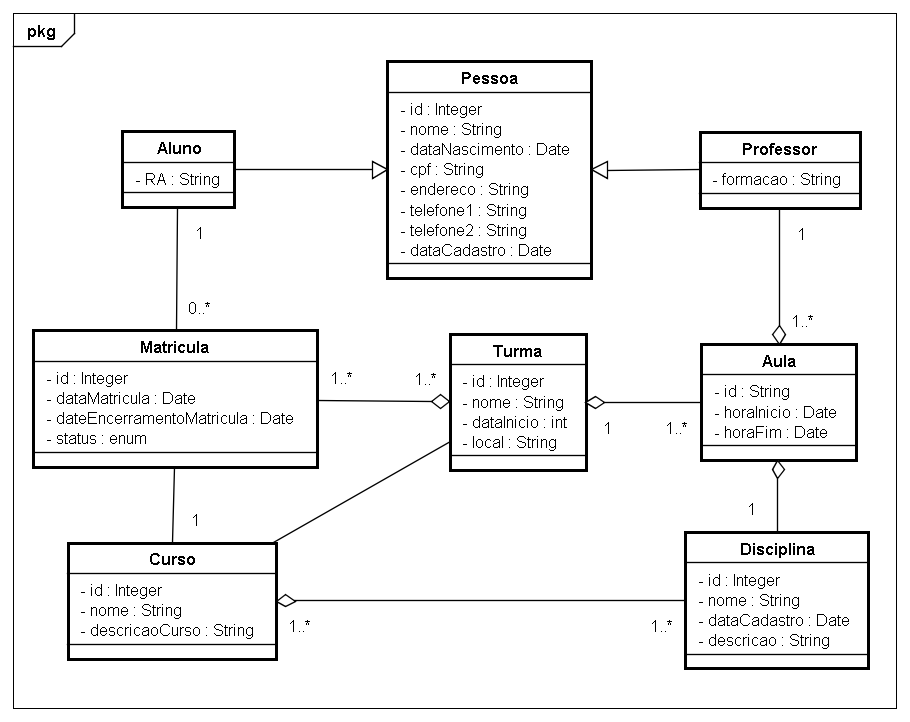
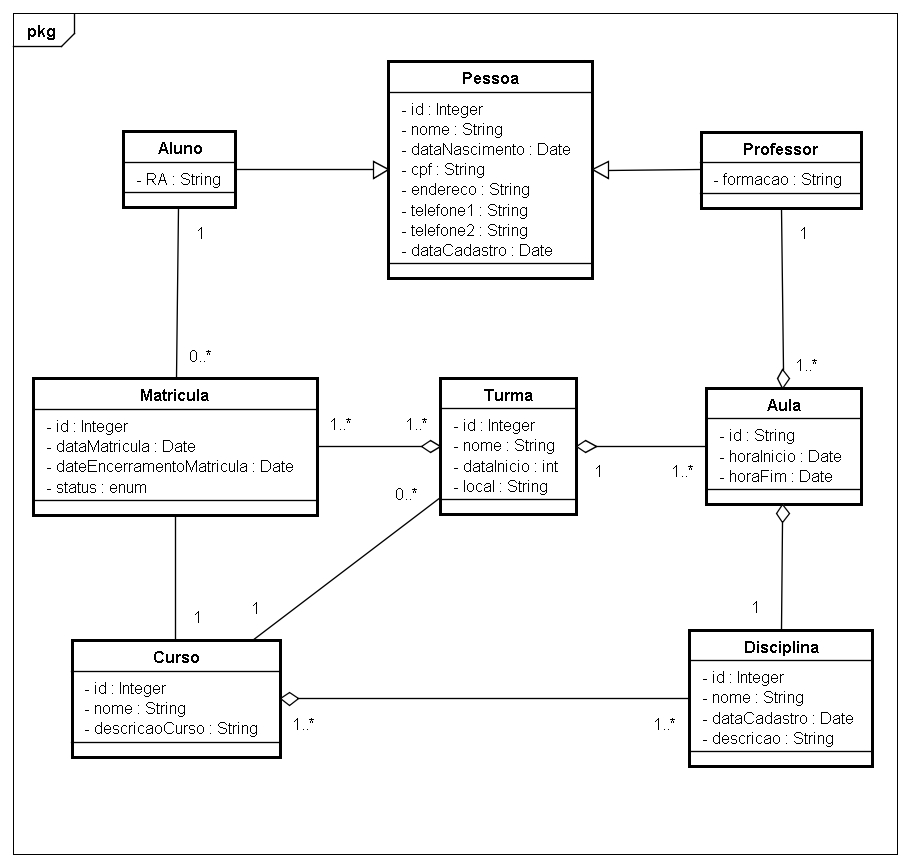
Atualizacao da implementacao do modelo conceitual

diff --git a/src/main/java/com/erick/escolar/EscolarApplication.java b/src/main/java/com/erick/escolar/EscolarApplication.java
@@ -8,7 +8,9 @@ import org.springframework.boot.CommandLineRunner;
 import org.springframework.boot.SpringApplication;
 import org.springframework.boot.autoconfigure.SpringBootApplication;
 
+import com.erick.escolar.domain.Curso;
 import com.erick.escolar.domain.Disciplina;
+import com.erick.escolar.repositories.CursoRepository;
 import com.erick.escolar.repositories.DisciplinaRepository;
 
 @SpringBootApplication
@@ -16,6 +18,9 @@ public class EscolarApplication implements CommandLineRunner{
 
 	@Autowired
 	DisciplinaRepository disciplinaR;
+	
+	@Autowired
+	CursoRepository cursoR;
 		
 	public static void main(String[] args) {
 		SpringApplication.run(EscolarApplication.class, args);
@@ -23,17 +28,32 @@ public class EscolarApplication implements CommandLineRunner{
 
 	@Override
 	public void run(String... args) throws Exception {
+	
+		
+		Curso c1 = new Curso(null, "Engenharia Civil", "Curso de aprender a bater concreto direito");
+		Curso c2 = new Curso(null, "Ciencia da Computacao", "Curso para aprender formatar pc");
 		
 		Date data1 = new Date();
 		data1.getTime();
 		
-		Disciplina d1 = new Disciplina("Portugues", data1, "");
-		Disciplina d2 = new Disciplina("Matematica", data1, "");
-		Disciplina d3 = new Disciplina("Fisica", data1, "");
-		Disciplina d4 = new Disciplina("Quimica", data1, "");
-		Disciplina d5 = new Disciplina("Biologia", data1, "");
-
+		Disciplina d1 = new Disciplina(null, "Portugues", data1, "");
+		Disciplina d2 = new Disciplina(null, "Matematica", data1, "");
+		Disciplina d3 = new Disciplina(null, "Fisica", data1, "");
+		Disciplina d4 = new Disciplina(null, "Quimica", data1, "");
+		Disciplina d5 = new Disciplina(null, "Biologia", data1, "");
+		
+		d1.getCursos().addAll(Arrays.asList(c1, c2));
+		
+		c1.getDisciplinas().addAll(Arrays.asList(d1));
+		c2.getDisciplinas().addAll(Arrays.asList(d1));
+		
+		
+		
 		disciplinaR.saveAll(Arrays.asList(d1, d2, d3, d4, d5));
+		cursoR.saveAll(Arrays.asList(c1, c2));
+		
+		
+		//curso
 		
 //		SimpleDateFormat df1 = new SimpleDateFormat("dd/MM/yyyy HH:mm");
 

diff --git a/src/main/java/com/erick/escolar/domain/Disciplina.java b/src/main/java/com/erick/escolar/domain/Disciplina.java
@@ -1,12 +1,17 @@
 package com.erick.escolar.domain;
 
 import java.io.Serializable;
+import java.util.ArrayList;
 import java.util.Date;
+import java.util.List;
 
 import javax.persistence.Entity;
 import javax.persistence.GeneratedValue;
 import javax.persistence.GenerationType;
 import javax.persistence.Id;
+import javax.persistence.ManyToMany;
+
+import com.fasterxml.jackson.annotation.JsonIgnore;
 
 @Entity
 public class Disciplina implements Serializable{
@@ -14,24 +19,37 @@ public class Disciplina implements Serializable{
 	private static final long serialVersionUID = 1L;
 	
 	@Id
-	@GeneratedValue(strategy=GenerationType.AUTO)
+	@GeneratedValue(strategy=GenerationType.IDENTITY)
 	private Integer id;
 	
 	private String nome;
 	private Date dataCadastro;
 	private String descricao;
 	
+	@JsonIgnore
+	@ManyToMany(mappedBy="disciplinas")
+	private List<Curso> cursos = new ArrayList<>();
+	
 	public Disciplina() {
 		
 	}
 
-	public Disciplina(String nome, Date dataCadastro, String descricao) {
+	public Disciplina(Integer id,String nome, Date dataCadastro, String descricao) {
 		super();
+		this.id = id;
 		this.nome = nome;
 		this.dataCadastro = dataCadastro;
 		this.descricao = descricao;
 	}
 
+	public List<Curso> getCursos(){
+		return cursos;
+	}
+	
+	public void setCursos(List<Curso> cursos) {
+		this.cursos = cursos;
+	}
+	
 	public String getNome() {
 		return nome;
 	}

diff --git a/src/main/java/com/erick/escolar/domain/Curso.java b/src/main/java/com/erick/escolar/domain/Curso.java
@@ -1,32 +1,53 @@
 package com.erick.escolar.domain;
 
 import java.io.Serializable;
+import java.util.ArrayList;
+import java.util.List;
 
 import javax.persistence.Entity;
 import javax.persistence.GeneratedValue;
 import javax.persistence.GenerationType;
 import javax.persistence.Id;
+import javax.persistence.JoinColumn;
+import javax.persistence.JoinTable;
+import javax.persistence.ManyToMany;
 
 @Entity
 public class Curso implements Serializable{
 
 	private static final long serialVersionUID = 1L;
 	@Id
-	@GeneratedValue(strategy=GenerationType.AUTO)
+	@GeneratedValue(strategy=GenerationType.IDENTITY)
 	private Integer id;
 	private String nome;
 	private String descricaoCurso;
+	
+	@ManyToMany
+	@JoinTable(name="CURSO_DISCIPLINA",
+	joinColumns = @JoinColumn(name="curso_id"),
+	inverseJoinColumns = @JoinColumn(name="disciplina_id")
+	)
+	List<Disciplina> disciplinas = new ArrayList<>(); 
 	
 	public Curso() {
 		
 	}
 
-	public Curso(String nome, String descricaoCurso) {
+	public Curso(Integer id,String nome, String descricaoCurso) {
 		super();
+		this.id = id;
 		this.nome = nome;
 		this.descricaoCurso = descricaoCurso;
 	}
 
+	public List<Disciplina> getDisciplinas(){
+		return this.disciplinas;
+	}
+	
+	public void setDisciplinas(List<Disciplina> disciplinas) {
+		this.disciplinas = disciplinas;
+	}
+	
 	public Integer getId() {
 		return id;
 	}

diff --git a/src/main/java/com/erick/escolar/domain/Pessoa.java b/src/main/java/com/erick/escolar/domain/Pessoa.java
@@ -7,14 +7,17 @@ import javax.persistence.Entity;
 import javax.persistence.GeneratedValue;
 import javax.persistence.GenerationType;
 import javax.persistence.Id;
+import javax.persistence.Inheritance;
+import javax.persistence.InheritanceType;
 
 @Entity
+@Inheritance(strategy=InheritanceType.JOINED)
 public abstract class Pessoa implements Serializable	{
 
 	private static final long serialVersionUID = 1L;
 	
 	@Id
-	@GeneratedValue(strategy=GenerationType.AUTO)
+	@GeneratedValue(strategy=GenerationType.IDENTITY)
 	private Integer id;
 	private String nome;
 	private Date dataNascimento;
@@ -29,9 +32,10 @@ public abstract class Pessoa implements Serializable	{
 		
 	}
 
-	public Pessoa(String nome, Date dataNascimento, String cpf, String endereco, String telefone1, String telefone2,
+	public Pessoa(Integer id, String nome, Date dataNascimento, String cpf, String endereco, String telefone1, String telefone2,
 			Date dataCadastro) {
 		super();
+		this.id = id;
 		this.nome = nome;
 		this.dataNascimento = dataNascimento;
 		this.cpf = cpf;

diff --git a/src/main/java/com/erick/escolar/resource/CursoResource.java b/src/main/java/com/erick/escolar/resource/CursoResource.java
@@ -7,23 +7,25 @@ import org.springframework.web.bind.annotation.PathVariable;
 import org.springframework.web.bind.annotation.RequestMapping;
 import org.springframework.web.bind.annotation.RestController;
 
-import com.erick.escolar.services.PessoaService;
+import com.erick.escolar.services.CursoService;
 
 @RestController
-@RequestMapping(value="/pessoa")
-public class PessoaResource {
-	
-	@Autowired
-	private PessoaService pessoa;
+@RequestMapping(value="/curso")
+public class CursoResource {
 
+	@Autowired
+	private CursoService cursoS;
+	
 	@GetMapping
 	public ResponseEntity<?> listar(){
-		return ResponseEntity.ok(pessoa.listar());
+		return ResponseEntity.ok(cursoS.listar());
 	}
 	
 	@GetMapping(value="/{id}")
 	public ResponseEntity<?> buscar(@PathVariable Integer id){
-		return ResponseEntity.ok(pessoa.buscar(id));
+		return ResponseEntity.ok(cursoS.buscar(id));
 	}
-
+	
+	
+	
 }

diff --git a/src/main/java/com/erick/escolar/domain/Turma.java b/src/main/java/com/erick/escolar/domain/Turma.java
@@ -3,10 +3,18 @@ package com.erick.escolar.domain;
 import java.io.Serializable;
 import java.util.Date;
 
+import javax.persistence.Entity;
+import javax.persistence.GeneratedValue;
+import javax.persistence.GenerationType;
+import javax.persistence.Id;
+
+@Entity
 public class Turma implements Serializable{
 
 	private static final long serialVersionUID = 1L;
-
+	
+	@Id
+	@GeneratedValue(strategy=GenerationType.IDENTITY)
 	private Integer id;
 	private String nome;
 	private Date dataInicio;
@@ -16,8 +24,9 @@ public class Turma implements Serializable{
 		
 	}
 
-	public Turma(String nome, Date dataInicio, String local) {
+	public Turma(Integer id, String nome, Date dataInicio, String local) {
 		super();
+		this.id = id;
 		this.nome = nome;
 		this.dataInicio = dataInicio;
 		this.local = local;

diff --git a/src/main/java/com/erick/escolar/services/CursoService.java b/src/main/java/com/erick/escolar/services/CursoService.java
@@ -1,0 +1,26 @@
+package com.erick.escolar.services;
+
+import java.util.List;
+import java.util.Optional;
+
+import org.springframework.beans.factory.annotation.Autowired;
+import org.springframework.stereotype.Service;
+
+import com.erick.escolar.domain.Curso;
+import com.erick.escolar.repositories.CursoRepository;
+
+@Service
+public class CursoService {
+	
+	@Autowired
+	private CursoRepository cursoR;
+	
+	public Optional<Curso> buscar(Integer id){
+		return cursoR.findById(id);
+	}
+	
+	public List<Curso> listar(){
+		return cursoR.findAll();
+	}
+	
+}

diff --git a/src/main/java/com/erick/escolar/domain/Aula.java b/src/main/java/com/erick/escolar/domain/Aula.java
@@ -14,7 +14,7 @@ public class Aula implements Serializable{
 	private static final long serialVersionUID = 1L;
 	
 	@Id
-	@GeneratedValue(strategy=GenerationType.AUTO)
+	@GeneratedValue(strategy=GenerationType.IDENTITY)
 	private Integer id;
 	private Date horaInicio;
 	private Date horaFim;
@@ -23,8 +23,9 @@ public class Aula implements Serializable{
 		
 	}
 
-	public Aula(Date horaInicio, Date horaFim) {
+	public Aula(Integer id,Date horaInicio, Date horaFim) {
 		super();
+		this.id = id;
 		this.horaInicio = horaInicio;
 		this.horaFim = horaFim;
 	}

diff --git a/src/main/java/com/erick/escolar/domain/Professor.java b/src/main/java/com/erick/escolar/domain/Professor.java
@@ -14,9 +14,9 @@ public class Professor extends Pessoa{
 		
 	}
 
-	public Professor(String nome, Date dataNascimento, String cpf, String endereco, String telefone1, String telefone2,
+	public Professor(Integer id, String nome, Date dataNascimento, String cpf, String endereco, String telefone1, String telefone2,
 			Date dataCadastro, String formacao) {
-		super(nome, dataNascimento, cpf, endereco, telefone1, telefone2, dataCadastro);
+		super(id, nome, dataNascimento, cpf, endereco, telefone1, telefone2, dataCadastro);
 		this.formacao = formacao;
 	}
 

diff --git a/src/main/java/com/erick/escolar/domain/Aluno.java b/src/main/java/com/erick/escolar/domain/Aluno.java
@@ -14,9 +14,9 @@ public class Aluno extends Pessoa{
 		
 	}
 
-	public Aluno(String nome, Date dataNascimento, String cpf, String endereco, String telefone1, String telefone2,
+	public Aluno(Integer id, String nome, Date dataNascimento, String cpf, String endereco, String telefone1, String telefone2,
 			Date dataCadastro, String RA) {
-		super(nome, dataNascimento, cpf, endereco, telefone1, telefone2, dataCadastro);
+		super(id, nome, dataNascimento, cpf, endereco, telefone1, telefone2, dataCadastro);
 		this.RA = RA;
 	}
 

diff --git a/src/main/java/com/erick/escolar/domain/Matricula.java b/src/main/java/com/erick/escolar/domain/Matricula.java
@@ -14,7 +14,7 @@ public class Matricula implements Serializable{
 	private static final long serialVersionUID = 1L;
 	
 	@Id
-	@GeneratedValue(strategy=GenerationType.AUTO)
+	@GeneratedValue(strategy=GenerationType.IDENTITY)
 	private Integer id;
 	
 	private Date dataMatricula;

diff --git a/src/main/java/com/erick/escolar/repositories/MatriculaRepository.java b/src/main/java/com/erick/escolar/repositories/MatriculaRepository.java
@@ -1,0 +1,9 @@
+package com.erick.escolar.repositories;
+
+import org.springframework.data.jpa.repository.JpaRepository;
+
+import com.erick.escolar.domain.Matricula;
+
+public interface MatriculaRepository extends JpaRepository<Matricula, Integer>{
+
+}
